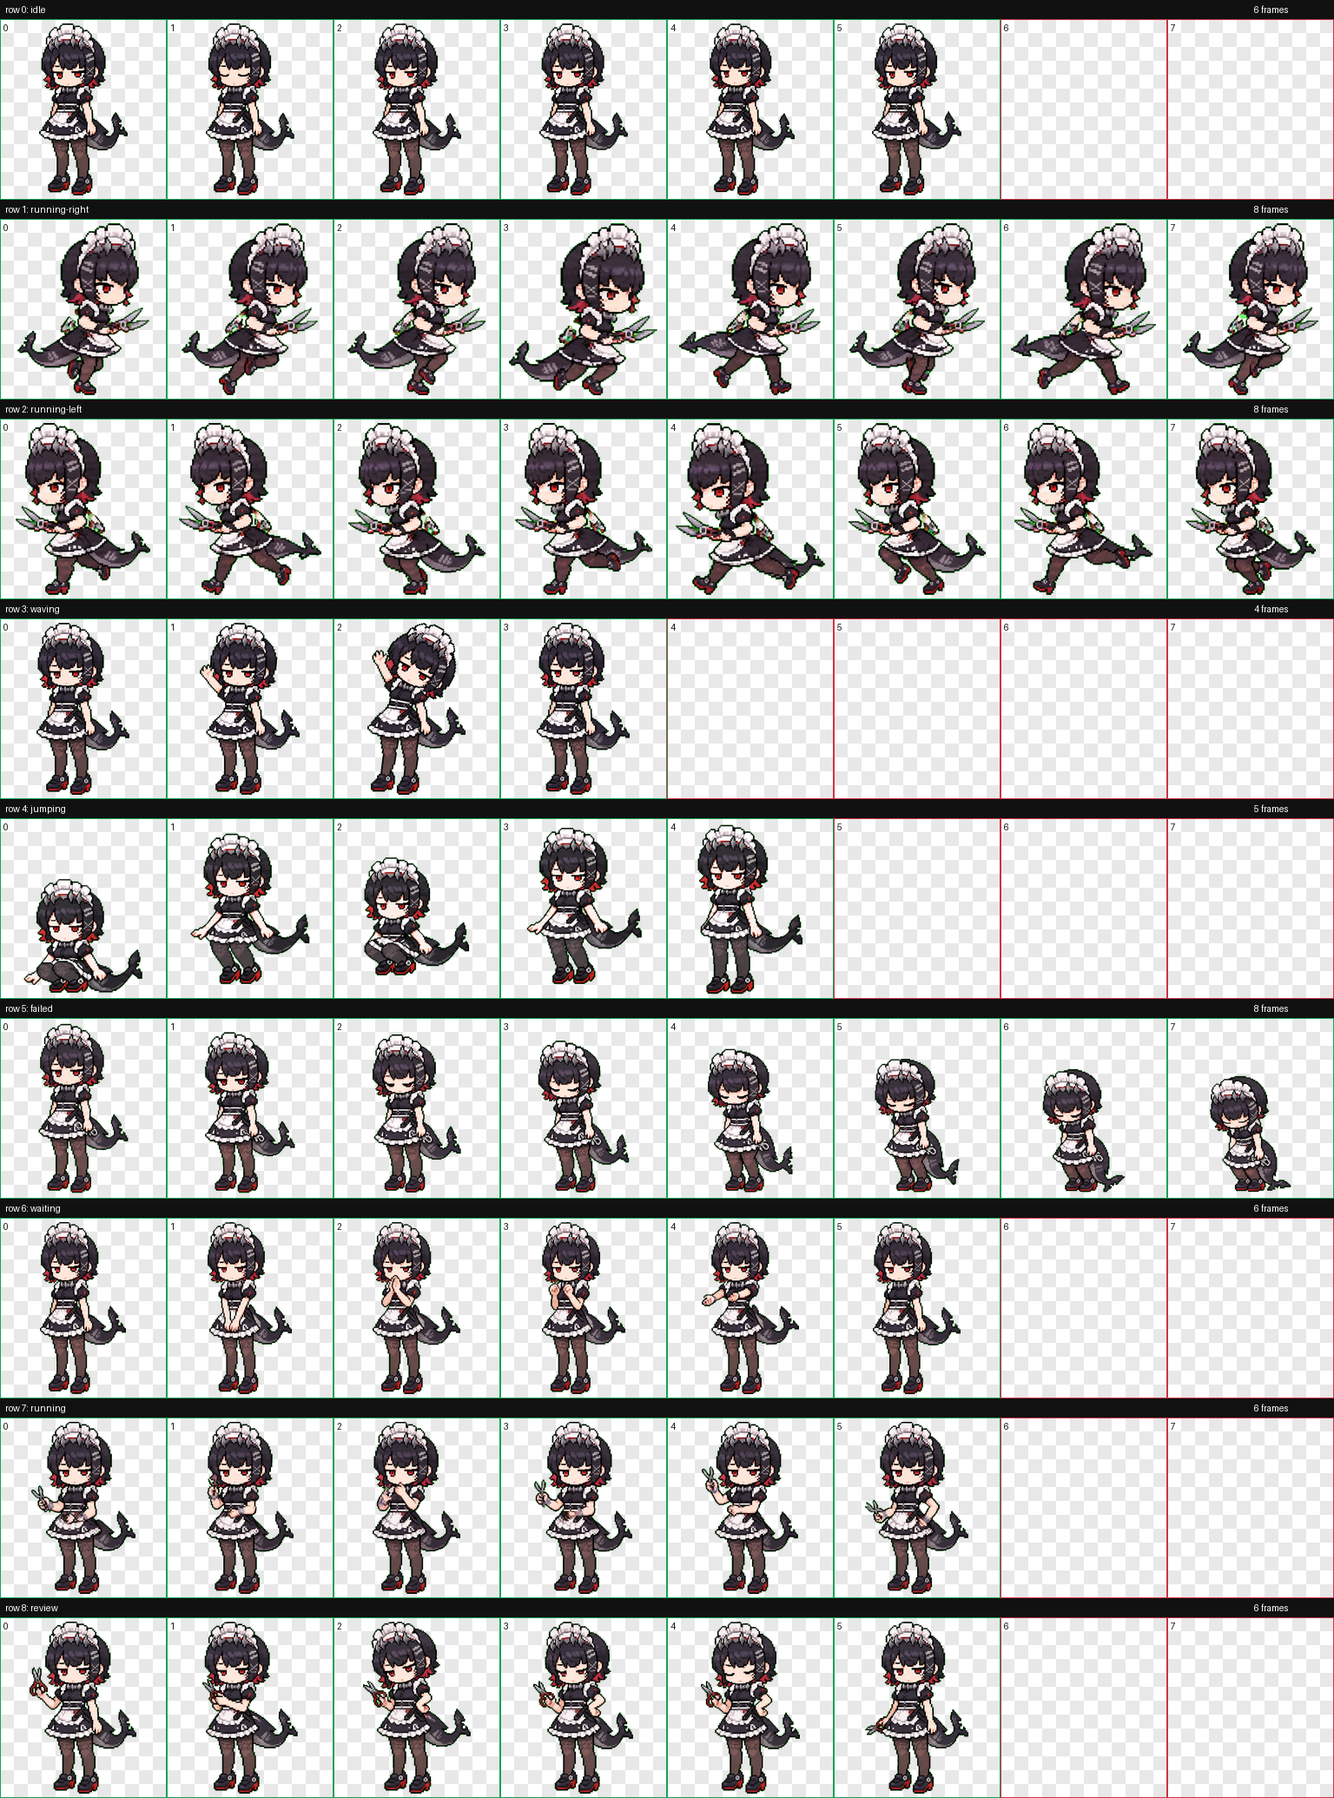
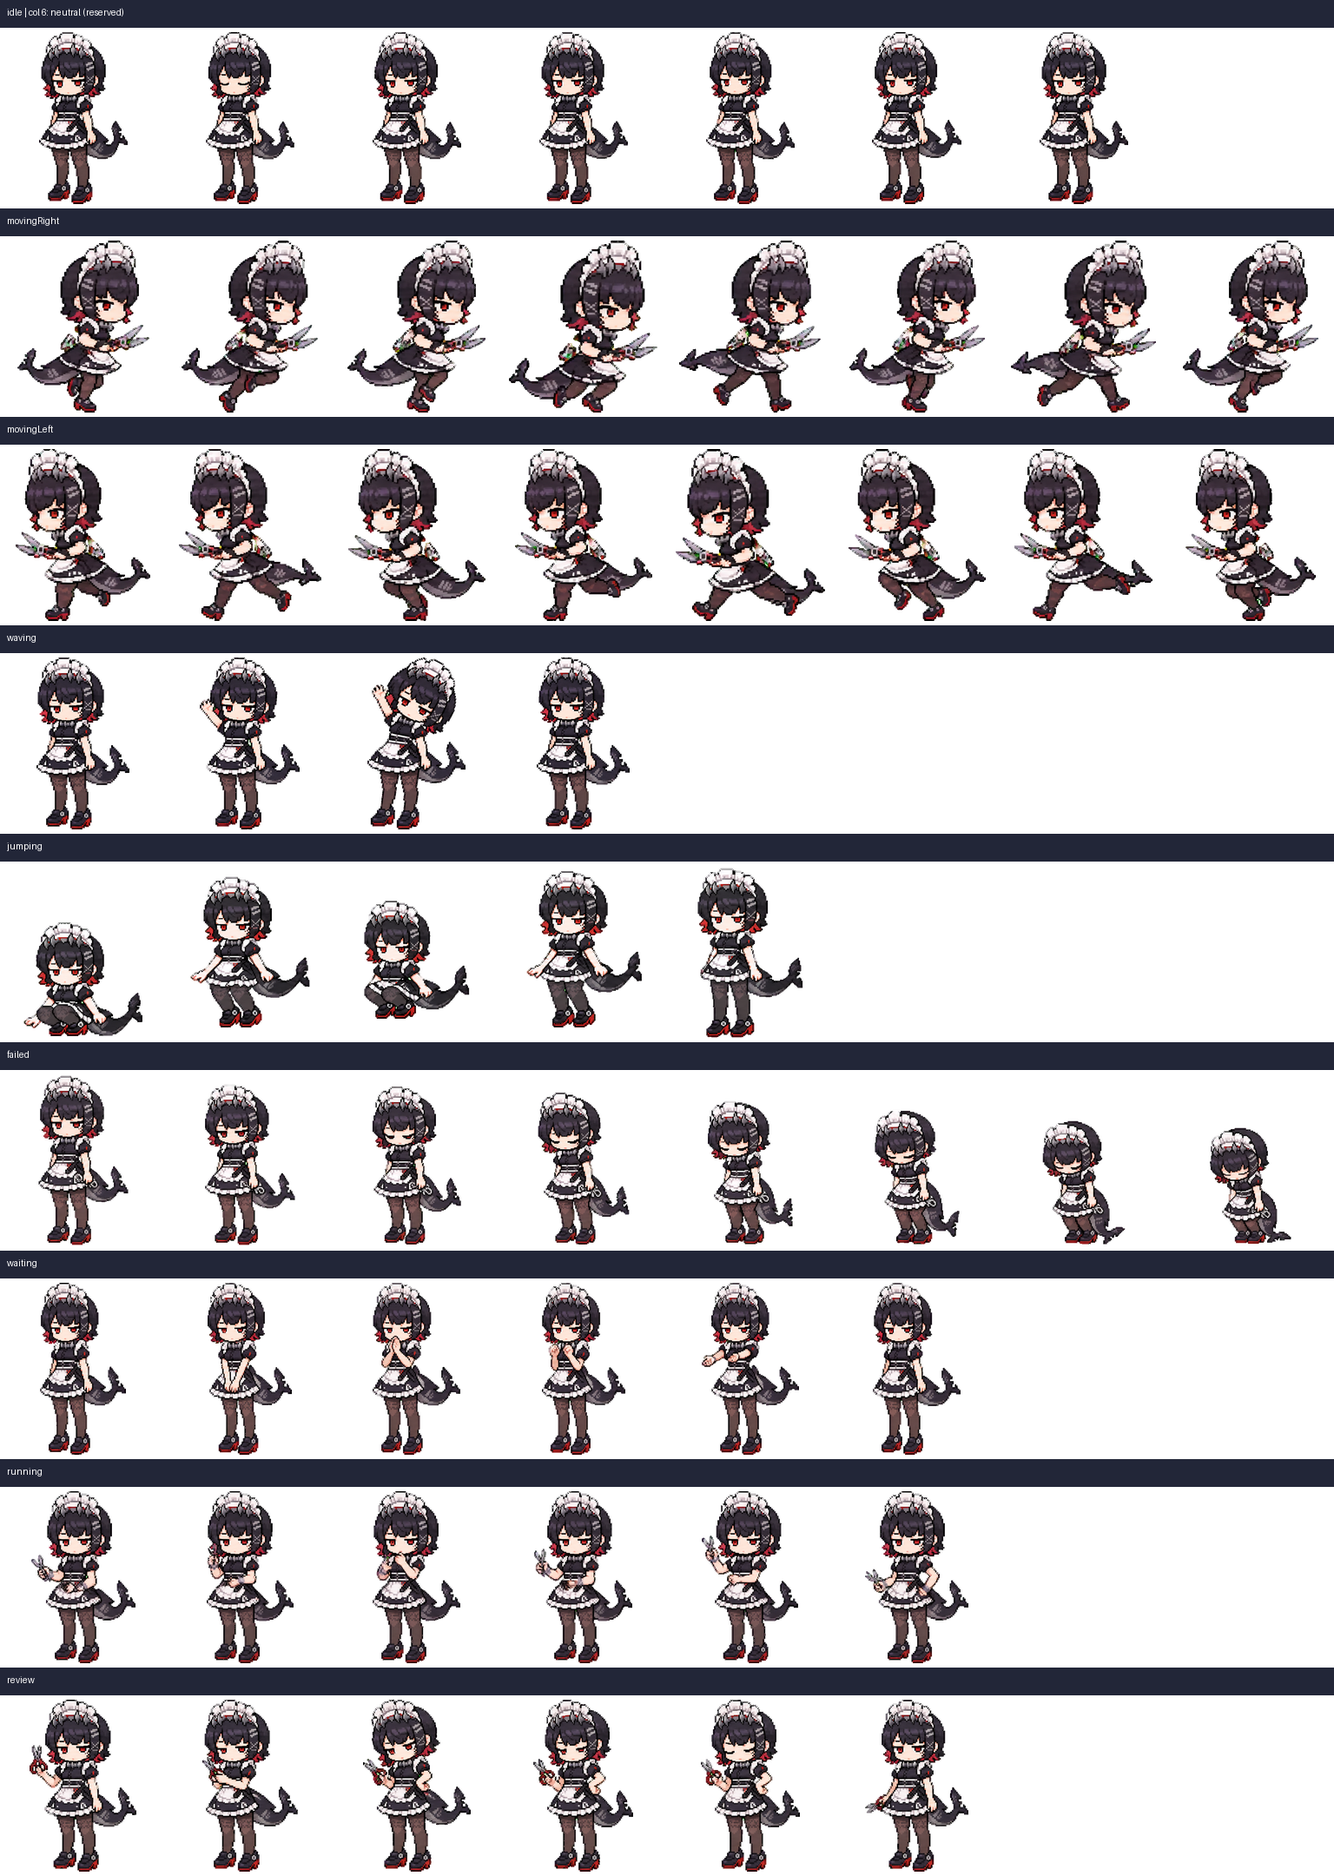
fix: ship self-contained validated release archives

Changed region(s): [[0.0, 0.0, 1.0, 1.0]]

diff --git a/tests/test_build_release.py b/tests/test_build_release.py
@@ -8,22 +8,29 @@ import time
 import zipfile
 from pathlib import Path
 
-from scripts.build_release import INCLUDED, build_release
+from scripts.build_release import release_inputs, build_release
+from test_pet_contract import write_package
+import json
+INCLUDED = release_inputs("v0.1.0")
 
 
-WEBP_BYTES = b"RIFF\x00\r\nWEBP\xff"
-TEXT_BYTES = b"first line\nsecond line\n"
-
-
-def fake_repo(root: Path, *, newline: bytes = b"\n", webp_bytes: bytes = b"webp") -> None:
+def fake_repo(root: Path, *, newline: bytes = b"\n") -> None:
     for relative in INCLUDED:
         path = root / relative
         path.parent.mkdir(parents=True, exist_ok=True)
-        path.write_bytes(
-            webp_bytes
-            if path.suffix == ".webp"
-            else b"first line" + newline + b"second line" + newline
-        )
+        path.write_bytes(b"first line" + newline + b"second line" + newline)
+    pet_root=root/'pet'
+    import shutil
+    shutil.rmtree(pet_root/'ellen-joe-pixel')
+    pet=write_package(pet_root)
+    lock={'schemaVersion':1,'petId':'ellen-joe-pixel','spritesheetSha256':hashlib.sha256((pet/'spritesheet.webp').read_bytes()).hexdigest()}
+    (root/'release-assets.json').write_text(json.dumps(lock))
+    from PIL import Image
+    Image.new('RGBA',(2,2),(1,2,3,4)).save(root/'qa/contact-sheet-standard.png')
+    for relative in INCLUDED:
+        path=root/relative
+        if path.suffix not in {'.png','.webp'}:
+            path.write_bytes(path.read_bytes().replace(b"\r\n",b"\n").replace(b"\n",newline))
 
 
 def test_release_names_contents_and_checksums(tmp_path: Path) -> None:
@@ -105,8 +112,8 @@ def test_release_normalizes_text_line_endings_but_preserves_webp_bytes(tmp_path:
     crlf_repo = tmp_path / "crlf-repo"
     lf_repo.mkdir()
     crlf_repo.mkdir()
-    fake_repo(lf_repo, newline=b"\n", webp_bytes=WEBP_BYTES)
-    fake_repo(crlf_repo, newline=b"\r\n", webp_bytes=WEBP_BYTES)
+    fake_repo(lf_repo, newline=b"\n")
+    fake_repo(crlf_repo, newline=b"\r\n")
 
     lf_release = build_release(lf_repo, "v0.1.0", tmp_path / "lf-dist")
     crlf_release = build_release(crlf_repo, "v0.1.0", tmp_path / "crlf-dist")
@@ -119,20 +126,10 @@ def test_release_normalizes_text_line_endings_but_preserves_webp_bytes(tmp_path:
     ).digest()
 
     root_name = "ellen-joe-pixel-v0.1.0"
-    text_members = [relative for relative in INCLUDED if not relative.endswith(".webp")]
     for release in (lf_release, crlf_release):
         with zipfile.ZipFile(release[0]) as archive:
-            for relative in text_members:
-                assert archive.read(f"{root_name}/{relative}") == TEXT_BYTES
-            assert archive.read(f"{root_name}/pet/ellen-joe-pixel/spritesheet.webp") == WEBP_BYTES
+            for relative in INCLUDED:
+                assert archive.read(f"{root_name}/{relative}") == (lf_repo/relative).read_bytes()
         with tarfile.open(release[1], "r:gz") as archive:
-            for relative in text_members:
-                member = archive.extractfile(f"{root_name}/{relative}")
-                assert member is not None
-                assert member.read() == TEXT_BYTES
-            member = archive.extractfile(f"{root_name}/pet/ellen-joe-pixel/spritesheet.webp")
-            assert member is not None
-            assert member.read() == WEBP_BYTES
-
-    assert (lf_repo / "pet/ellen-joe-pixel/spritesheet.webp").read_bytes() == WEBP_BYTES
-    assert (crlf_repo / "pet/ellen-joe-pixel/spritesheet.webp").read_bytes() == WEBP_BYTES
+            for relative in INCLUDED:
+                assert archive.extractfile(f"{root_name}/{relative}").read() == (lf_repo/relative).read_bytes()

diff --git a/scripts/build_release.py b/scripts/build_release.py
@@ -9,6 +9,11 @@ import tarfile
 import zipfile
 from pathlib import Path
 
+try:
+    from .pet_contract import validate_package
+except ImportError:
+    from pet_contract import validate_package
+
 INCLUDED = (
     "pet/ellen-joe-pixel/pet.json",
     "pet/ellen-joe-pixel/spritesheet.webp",
@@ -22,25 +27,19 @@ INCLUDED = (
     "NOTICE.md",
     "THIRD_PARTY_NOTICES.md",
 )
-TEXT_INCLUDED = frozenset(
-    {
-        "pet/ellen-joe-pixel/pet.json",
-        "scripts/install.ps1",
-        "scripts/uninstall.ps1",
-        "scripts/install.sh",
-        "scripts/uninstall.sh",
-        "README.md",
-        "README.zh-CN.md",
-        "LICENSE",
-        "NOTICE.md",
-        "THIRD_PARTY_NOTICES.md",
-    }
+EXTRA_INPUTS = (
+    "scripts/validate_pet.py", "scripts/pet_contract.py", "scripts/manifest_contract.py",
+    "scripts/manifest-contract.ps1", "requirements-validator.txt", "release-assets.json",
+    "qa/contact-sheet-standard.png",
 )
+
+def release_inputs(version: str) -> tuple[str, ...]:
+    return INCLUDED + EXTRA_INPUTS + (f"docs/releases/{version}.md",)
 
 
 def _release_bytes(relative: str, path: Path) -> bytes:
     data = path.read_bytes()
-    if relative in TEXT_INCLUDED:
+    if path.suffix not in {".webp", ".png"}:
         return data.replace(b"\r\n", b"\n").replace(b"\r", b"\n")
     return data
 
@@ -49,16 +48,20 @@ def build_release(repo_root: Path, version: str, output_dir: Path) -> tuple[Path
     if re.fullmatch(r"v[0-9]+\.[0-9]+\.[0-9]+", version) is None:
         raise ValueError("version must match vMAJOR.MINOR.PATCH")
     repo_root = repo_root.resolve()
-    missing = [relative for relative in INCLUDED if not (repo_root / relative).is_file()]
+    included = release_inputs(version)
+    missing = [relative for relative in included if not (repo_root / relative).is_file()]
     if missing:
         raise FileNotFoundError("missing release input: " + ", ".join(missing))
+    errors = validate_package(repo_root / "pet/ellen-joe-pixel", asset_lock=repo_root / "release-assets.json")
+    if errors:
+        raise ValueError("invalid release source: " + "; ".join(errors))
     output_dir.mkdir(parents=True, exist_ok=True)
     root_name = f"ellen-joe-pixel-{version}"
     zip_path = output_dir / f"{root_name}.zip"
     tar_path = output_dir / f"{root_name}.tar.gz"
     sums_path = output_dir / "SHA256SUMS.txt"
     with zipfile.ZipFile(zip_path, "w", compression=zipfile.ZIP_DEFLATED) as archive:
-        for relative in INCLUDED:
+        for relative in included:
             data = _release_bytes(relative, repo_root / relative)
             info = zipfile.ZipInfo(f"{root_name}/{relative}", (1980, 1, 1, 0, 0, 0))
             info.compress_type = zipfile.ZIP_DEFLATED
@@ -68,7 +71,7 @@ def build_release(repo_root: Path, version: str, output_dir: Path) -> tuple[Path
     with tar_path.open("wb") as raw_file:
         with gzip.GzipFile(fileobj=raw_file, mode="wb", mtime=0) as compressed:
             with tarfile.open(fileobj=compressed, mode="w", format=tarfile.USTAR_FORMAT) as archive:
-                for relative in INCLUDED:
+                for relative in included:
                     path = repo_root / relative
                     data = _release_bytes(relative, path)
                     info = tarfile.TarInfo(f"{root_name}/{relative}")

diff --git a/tests/test_release_archive.py b/tests/test_release_archive.py
@@ -1,0 +1,55 @@
+import os,re,shutil,subprocess,sys,tarfile,zipfile
+from pathlib import Path
+import pytest
+from scripts.build_release import build_release
+ROOT=Path(__file__).resolve().parents[1]
+
+@pytest.fixture(params=['zip','tar'])
+def extracted(request,tmp_path):
+    paths=build_release(ROOT,'v0.1.3',tmp_path/'dist')
+    out=tmp_path/'解压 独立目录';out.mkdir()
+    if request.param=='zip':
+        with zipfile.ZipFile(paths[0]) as z:z.extractall(out)
+    else:
+        with tarfile.open(paths[1]) as t:t.extractall(out,filter='data')
+    return out/'ellen-joe-pixel-v0.1.3'
+
+def test_archive_can_validate_without_checkout(extracted):
+    env=dict(os.environ);env.pop('PYTHONPATH',None)
+    r=subprocess.run([sys.executable,'-B','scripts/validate_pet.py','pet/ellen-joe-pixel','--asset-lock','release-assets.json'],cwd=extracted,env=env,capture_output=True,text=True)
+    assert r.returncode==0,r.stdout+r.stderr
+    assert (extracted/'requirements-validator.txt').exists()
+    assert not (extracted/'tests').exists()
+    assert not (extracted/'requirements-dev.txt').exists()
+    assert not (extracted/'scripts/preview').exists()
+
+def test_archive_install_lifecycle(extracted,tmp_path):
+    from test_installer_contract import command,run
+    shell='pwsh' if os.name=='nt' else 'sh'
+    home=tmp_path/'isolated home'
+    sentinel=home/'pets/sentinel/pet.json';sentinel.parent.mkdir(parents=True);sentinel.write_bytes(b'sentinel')
+    for force,expected in [(False,0),(False,2),(True,0)]:
+        r=run(command(shell,extracted,home,force));assert r.returncode==expected,r.stdout+r.stderr
+    assert len(list((home/'pet-backups').iterdir()))==1
+    args=command(shell,extracted,home);args=[s.replace('install.ps1','uninstall.ps1').replace('install.sh','uninstall.sh') for s in args]
+    assert run(args).returncode==0
+    assert sentinel.read_bytes()==b'sentinel'
+    assert not (home/'pets/ellen-joe-pixel').exists()
+
+def test_readme_user_links_resolve(extracted):
+    for name in ['README.md','README.zh-CN.md']:
+        for target in re.findall(r'\]\(([^)]+)\)',(extracted/name).read_text(encoding='utf-8')):
+            if not target.startswith(('https:','http:','#')):
+                assert (extracted/target.split('#')[0]).exists(),target
+
+def test_invalid_source_preserves_existing_archives(tmp_path):
+    repo=tmp_path/'repo';shutil.copytree(ROOT/'pet',repo/'pet');shutil.copytree(ROOT/'scripts',repo/'scripts')
+    for name in ['release-assets.json','README.md','README.zh-CN.md','LICENSE','NOTICE.md','THIRD_PARTY_NOTICES.md','requirements-validator.txt']:
+        shutil.copyfile(ROOT/name,repo/name)
+    shutil.copytree(ROOT/'docs/releases',repo/'docs/releases');shutil.copytree(ROOT/'qa',repo/'qa')
+    out=tmp_path/'dist';out.mkdir()
+    for name in ['ellen-joe-pixel-v0.1.3.zip','ellen-joe-pixel-v0.1.3.tar.gz','SHA256SUMS.txt']:(out/name).write_bytes(b'prior')
+    (repo/'pet/ellen-joe-pixel/pet.json').write_text('{}')
+    with pytest.raises(ValueError):build_release(repo,'v0.1.3',out)
+    assert all(p.read_bytes()==b'prior' for p in out.iterdir())
+

diff --git a/scripts/build_contact_sheet.py b/scripts/build_contact_sheet.py
@@ -1,0 +1,28 @@
+from __future__ import annotations
+import argparse
+from pathlib import Path
+from PIL import Image,ImageDraw
+try:
+    from .pet_contract import validate_package
+except ImportError:
+    from pet_contract import validate_package
+
+STATES=('idle','movingRight','movingLeft','waving','jumping','failed','waiting','running','review')
+def build_contact_sheet(pet_dir: Path, output: Path) -> Path:
+    errors=validate_package(pet_dir)
+    if errors: raise ValueError('; '.join(errors))
+    with Image.open(pet_dir/'spritesheet.webp') as source:
+        atlas=source.convert('RGBA')
+    sheet=Image.new('RGBA',(1536,2160))
+    draw=ImageDraw.Draw(sheet)
+    for row,state in enumerate(STATES):
+        draw.rectangle((0,row*240,1535,row*240+31), fill='#222638')
+        draw.text((8,row*240+8),state + (' | col 6: neutral (reserved)' if row==0 else ''),fill='white')
+        sheet.paste(atlas.crop((0,row*208,1536,(row+1)*208)),(0,row*240+32))
+    output.parent.mkdir(parents=True,exist_ok=True)
+    sheet.save(output,format='PNG')
+    return output
+
+if __name__=='__main__':
+    p=argparse.ArgumentParser();p.add_argument('--pet-dir',type=Path,required=True);p.add_argument('--output',type=Path,required=True)
+    print(build_contact_sheet(**vars(p.parse_args())).resolve())

diff --git a/tests/test_contact_sheet.py b/tests/test_contact_sheet.py
@@ -1,0 +1,11 @@
+from pathlib import Path
+from PIL import Image
+from scripts import build_contact_sheet
+
+def test_contact_sheet_uses_final_cells(tmp_path):
+    pet=Path(__file__).resolve().parents[1]/'pet/ellen-joe-pixel'
+    out=build_contact_sheet.build_contact_sheet(pet,tmp_path/'contact.png')
+    with Image.open(pet/'spritesheet.webp') as source, Image.open(out) as result:
+        for row,count in enumerate((7,8,8,4,5,8,6,6,6)):
+            for col in range(count):
+                assert result.crop((col*192, row*240+32,(col+1)*192,row*240+240)).tobytes()==source.convert('RGBA').crop((col*192,row*208,(col+1)*192,(row+1)*208)).tobytes()

diff --git a/README.md b/README.md
@@ -12,7 +12,7 @@ spritesheet, cross-platform installers, and a local package validator. It is
 unofficial and non-commercial. It is not affiliated with HoYoverse, Cognosphere,
 or OpenAI.
 
-See the [v0.1.2 release notes](docs/releases/v0.1.2.md), [rights and
+See the [v0.1.3 candidate notes](docs/releases/v0.1.3.md), [rights and
 license](#rights-license-and-sources), and [简体中文 guide](README.zh-CN.md).
 
 ## Package facts
@@ -35,17 +35,17 @@ through `090` (right), `180` (down), and `270` (left).
 
 | Platform | Current support evidence | Requirements |
 | --- | --- | --- |
-| Windows | Tested by the Windows CI job | PowerShell 5.1 or PowerShell 7 |
-| macOS | Validated by the macOS CI job | POSIX `sh` and Python 3 |
-| Ubuntu | Validated by the Ubuntu CI job | POSIX `sh` and Python 3 |
+| Windows | Local PowerShell 5.1 / 7 checks; candidate CI pending | PowerShell 5.1 or PowerShell 7 |
+| macOS | Candidate CI not run | POSIX `sh` and Python 3 |
+| Ubuntu | Candidate CI not run | POSIX `sh` and Python 3 |
 | Other Linux distributions | Not guaranteed by this repository | Check the scripts and test locally |
 
 The POSIX installer uses Python 3 to validate the manifest. The repository
-validator also uses Pillow; install the development requirements before running
+validator also uses Pillow; install the validator requirements before running
 it:
 
 ~~~sh
-python -m pip install -r requirements-dev.txt
+python -m pip install -r requirements-validator.txt
 ~~~
 
 The CI matrix validates the package contract and installer behavior. It does
@@ -120,12 +120,12 @@ The installer stages the new package, moves the old exact target to a uniquely
 named backup under `<CodexHome>/pet-backups`, and then installs the staged
 target. It reports the backup path. Keeping backups outside `pets` prevents
 Codex from discovering a backup as a second pet. Uninstall does not remove
-backups or neighboring pets. Release [v0.1.1](docs/releases/v0.1.1.md) includes
+backups or neighboring pets. Release [v0.1.1](https://github.com/atanllama/ellen-joe-codex-pet/blob/main/docs/releases/v0.1.1.md) includes
 the backup-location fix for duplicate entries.
 
 ## Verify the package
 
-From the repository root, after installing the requirements:
+From the extracted package root, after installing the validator requirements:
 
 ~~~sh
 python scripts/validate_pet.py pet/ellen-joe-pixel
@@ -141,7 +141,7 @@ The validator returns `0` for a valid package and `1` for a contract
 failure. The current packaged WebP SHA-256 is:
 
 ~~~text
[1 lines of base64/hex data omitted]
+release-assets.json -> spritesheetSha256
 ~~~
 
 Windows:
@@ -241,9 +241,20 @@ and verify `SHA256SUMS.txt` before installing:
 - `SHA256SUMS.txt`
 
 After extraction, run the package validator. The version-specific details are
-in the [v0.1.2 release notes](docs/releases/v0.1.2.md).
+in the [v0.1.3 candidate notes](docs/releases/v0.1.3.md).
+
+To check approved bytes as well as structure:
+
+~~~sh
+python scripts/validate_pet.py pet/ellen-joe-pixel --asset-lock release-assets.json
+~~~
+
+The lock is an explicit approval record, not a digital signature.
 
 ## Contributions and issues
+
+Development requires the full repository and `pip install -r requirements-dev.txt`.
+Generated playback HTML is a maintainer tool; see the candidate release notes.
 
 Contributions to scripts, tests, and documentation are welcome. Before opening
 a pull request, run the test suite and package validator:

diff --git a/README.zh-CN.md b/README.zh-CN.md
@@ -11,7 +11,7 @@ Ellen Joe Pixel 是一个面向 Codex 的全身 Ellen Joe 宠物包，包含 Cod
 精灵图、跨平台安装脚本和本地包校验器。本项目为非官方、非商业同人作品，
 与 HoYoverse、Cognosphere 或 OpenAI 没有隶属、赞助或认可关系。
 
-请先阅读 [v0.1.2 发布说明](docs/releases/v0.1.2.md)、[权利、许可证与来源](#权利许可证与来源)
+请先阅读 [v0.1.3 候选说明](docs/releases/v0.1.3.md)、[权利、许可证与来源](#权利许可证与来源)
 以及本页对应的 [English guide](README.md)。
 
 ## 包信息
@@ -42,7 +42,7 @@ POSIX 安装脚本会使用 Python 3 校验 manifest。仓库校验器还需要 
 运行校验器前请安装开发依赖：
 
 ~~~sh
-python -m pip install -r requirements-dev.txt
+python -m pip install -r requirements-validator.txt
 ~~~
 
 CI 会校验包契约和安装脚本行为，但不会自动操作 Codex 桌面应用界面；
@@ -114,12 +114,12 @@ sh ./scripts/install.sh --codex-home "$HOME/.codex-test" --force
 安装器会先暂存新包，再把旧的精确目标移动到
 CodexHome/pet-backups 下的唯一备份目录，最后安装暂存目标，并输出备份路径。
 备份目录位于 pets 发现目录之外，因此不会被 Codex 误识别为第二个宠物。
-卸载不会删除备份或其他相邻宠物。[v0.1.1](docs/releases/v0.1.1.md)
+卸载不会删除备份或其他相邻宠物。[v0.1.1](https://github.com/atanllama/ellen-joe-codex-pet/blob/main/docs/releases/v0.1.1.md)
 修复了强制重装导致重复条目的备份位置问题。
 
 ## 校验包
 
-在仓库根目录安装开发依赖后运行：
+在解压目录安装校验依赖后运行：
 
 ~~~sh
 python scripts/validate_pet.py pet/ellen-joe-pixel
@@ -134,7 +134,7 @@ python .\scripts\validate_pet.py .\pet\ellen-joe-pixel
 校验成功返回 0，包契约失败返回 1。当前 WebP 图集的 SHA-256 为：
 
 ~~~text
[1 lines of base64/hex data omitted]
+release-assets.json -> spritesheetSha256
 ~~~
 
 Windows：
@@ -232,9 +232,19 @@ rmdir "$codex_home/pets/.ellen-joe-pixel.install.lock"
 - SHA256SUMS.txt
 
 解压后请再次运行包校验器。版本细节见
-[v0.1.2 发布说明](docs/releases/v0.1.2.md)。
+[v0.1.3 候选说明](docs/releases/v0.1.3.md)。
+
+同时核对结构与批准字节：
+
+~~~sh
+python scripts/validate_pet.py pet/ellen-joe-pixel --asset-lock release-assets.json
+~~~
+
+lock 是批准素材的一致性记录，不是数字签名。v0.1.3 跨平台 CI 与真实应用验收尚未运行；历史 CI 不代表候选版本通过。
 
 ## 贡献与问题反馈
+
+开发需要完整仓库，并安装 `pip install -r requirements-dev.txt`。播放 HTML 为维护者工具，参见候选说明。
 
 欢迎为脚本、测试和文档提交贡献。提交 PR 前请运行：
 

diff --git a/docs/releases/v0.1.3.md b/docs/releases/v0.1.3.md
@@ -1,0 +1,5 @@
+# v0.1.3 — unpublished candidate
+
+Self-contained archives now include the validator, its Pillow requirements, shared manifest helpers, asset lock, and final-atlas contact sheet. Installers validate the same strict metadata and approved bytes before changing the target.
+
+The approved artwork is unchanged. Playback tooling and acceptance evidence are being prepared. Local isolated checks do not establish real Codex rendering or cross-platform CI acceptance. No release, tag, push, or real installation is performed by this implementation.
